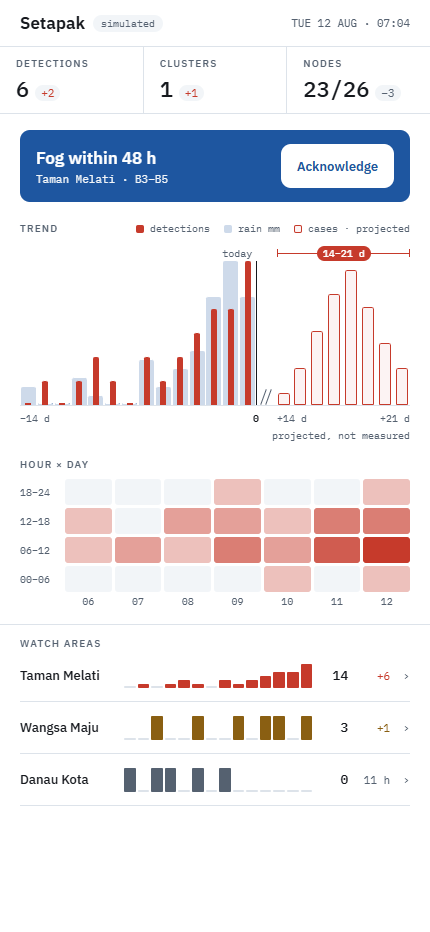
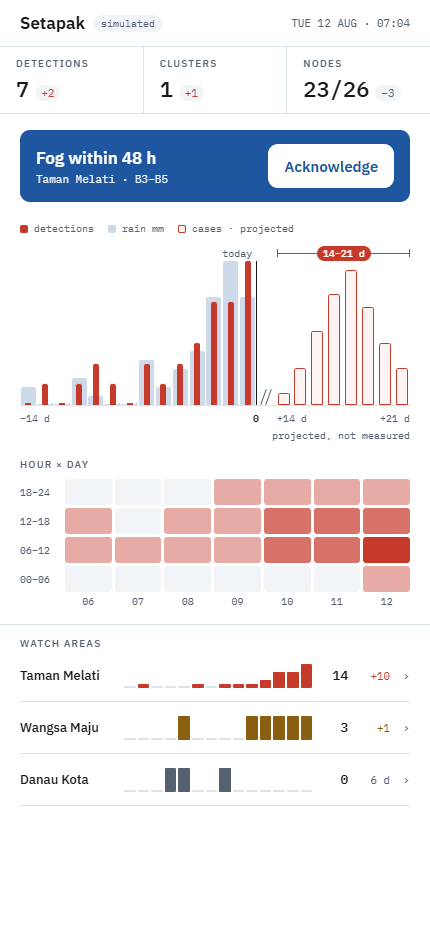
slice 13 fix 1: derive every figure from one base series; drop the self-labelling eyebrow

diff --git a/app/src/data/district.ts b/app/src/data/district.ts
@@ -30,10 +30,15 @@ export type WatchArea = {
   name: string;
   /** 14-day detection counts, oldest first — the sparkline. */
   spark: readonly number[];
-  /** Detections in the last 72 h. */
+  /** Detections in the last 72 h — derived from `spark`, never typed in. */
   count: number;
-  /** Signed change, or a "silent for" duration when count is 0. */
+  /**
+   * Derived: the signed 72 h-over-72 h change, or — when `count` is 0 — how long the area has been
+   * silent, read off `spark` so the string is always true of the bars beside it.
+   */
   delta: string;
+  /** Present only when `count` is 0: days since this area's last detection. */
+  silentDays?: number;
   tone: Tone;
   /** Seeded centroid, inside the bundled raster's bounds (design-system.md §Maps). */
   center: { lat: number; lon: number };
@@ -86,17 +91,74 @@ export const district = {
   simulated: true,
 } as const;
 
-export const kpis: readonly Kpi[] = [
-  { key: 'detections', label: 'Detections', value: '6', delta: '+2', tone: 'alert' },
-  { key: 'clusters', label: 'Clusters', value: '1', delta: '+1', tone: 'alert' },
-  { key: 'nodes', label: 'Nodes', value: '23/26', delta: '−3', tone: 'neutral' },
-];
+/* ───────────────────────────────────────────────────────────────────────────────────────────────
+   ONE BASE FACT, everything else derived (fix round, slice 13).
+   The only hand-written detection numbers in this file are the three area sparks below. The
+   district series is their element-wise sum; every count, delta, KPI value and heat-grid cell is
+   computed from that sum. Two figures can no longer disagree on screen, because there is only one
+   figure and the rest is arithmetic.
 
-// The last three days sum to 14 — the sanctioned cluster (14 detections / 72 h).
-const DETECTIONS_14D = [0, 1, 0, 1, 2, 1, 0, 2, 1, 2, 3, 4, 4, 6] as const;
+   Sanctioned anchors preserved: Taman Melati's last 72 h sums to **14** (specs' 14 detections /
+   72 h, and `activeCluster.detections`, and the 14 plotted dots in `detectionsByArea`), and the
+   last three rain days sum to **+40 mm**.
+   ─────────────────────────────────────────────────────────────────────────────────────────────── */
+
+/** The 72 h window every `count` and delta is measured over, in days. */
+const WINDOW_DAYS = 3;
+const DAYS = 14;
+
+const sum = (xs: readonly number[]) => xs.reduce((a, b) => a + b, 0);
+/** Sum of the most recent `WINDOW_DAYS` (the last 72 h). */
+const windowSum = (xs: readonly number[]) => sum(xs.slice(-WINDOW_DAYS));
+/** Sum of the 72 h before that — the comparison the delta is against. */
+const priorWindowSum = (xs: readonly number[]) => sum(xs.slice(-WINDOW_DAYS * 2, -WINDOW_DAYS));
+const signed = (n: number) => (n > 0 ? `+${n}` : n < 0 ? `−${Math.abs(n)}` : '0');
+/** Days since the last non-zero day, or null if the series is silent throughout. */
+function daysSinceLast(xs: readonly number[]): number | null {
+  for (let i = xs.length - 1; i >= 0; i--) if (xs[i] > 0) return xs.length - 1 - i;
+  return null;
+}
+
+/**
+ * The three watch areas. Sparks are 14 days, oldest first — the ONLY typed-in detection counts.
+ *
+ * Taman Melati's last three days are [4, 4, 6] = 14, which is the sanctioned cluster figure and the
+ * `ageBand` split of its 14 mapped detections. Wangsa Maju's [1, 1, 1] = 3 is one detection per
+ * recency band, matching its three mapped dots. Danau Kota has been silent since day 8, so its
+ * count is 0 and its row reports the silence instead of a change.
+ */
+const AREA_SEED = [
+  {
+    id: 'taman-melati',
+    name: 'Taman Melati',
+    spark: [0, 1, 0, 0, 0, 1, 0, 1, 1, 1, 2, 4, 4, 6],
+    tone: 'alert' as Tone,
+    center: { lat: 3.2145, lon: 101.7216 },
+  },
+  {
+    id: 'wangsa-maju',
+    name: 'Wangsa Maju',
+    spark: [0, 0, 0, 0, 1, 0, 0, 0, 0, 1, 1, 1, 1, 1],
+    tone: 'caution' as Tone,
+    center: { lat: 3.2032, lon: 101.7305 },
+  },
+  {
+    id: 'danau-kota',
+    name: 'Danau Kota',
+    spark: [0, 0, 0, 1, 1, 0, 0, 1, 0, 0, 0, 0, 0, 0],
+    tone: 'neutral' as Tone,
+    center: { lat: 3.2035, lon: 101.7148 },
+  },
+] as const;
+
+/** The district series IS the areas, added up. Nothing else may define it. */
+const DETECTIONS_14D: readonly number[] = Array.from({ length: DAYS }, (_, d) =>
+  sum(AREA_SEED.map((a) => a.spark[d])),
+);
+
 // The last three days sum to 40 — the sanctioned +40 mm.
 const RAIN_14D = [2, 0, 0, 3, 1, 0, 0, 5, 2, 4, 6, 12, 16, 12] as const;
-// +14…+21 d inclusive: 8 days. Magnitudes are illustrative only.
+// +14…+21 d inclusive: 8 days. A shape only — no magnitude is claimed or rendered.
 const PROJECTED_CASES = [1, 3, 6, 9, 11, 8, 5, 3] as const;
 
 export const trend: TrendSeries = {
@@ -111,59 +173,109 @@ export const trend: TrendSeries = {
   },
 };
 
-/** Hour band × day. The daylight-biting vector shows in the two middle bands. */
+/**
+ * Hour band × day, DERIVED so each column sums to that day's district detections — the grid and the
+ * chart above it are the same data at two resolutions, and a paused frame cannot catch them
+ * disagreeing.
+ *
+ * The daylight-biting shape (specs.md §2: *Aedes aegypti* bites in daylight) is the argument the
+ * grid exists to make, so it is carried by fixed band weights rather than by hand-placed cells:
+ * 06–12 heaviest, 12–18 close behind, 18–24 light, 00–06 residual. Whole detections are allocated
+ * by largest remainder, ties to the heavier band, so every column total is exact.
+ */
+const HEAT_BANDS = [
+  { label: '18–24', weight: 0.16 },
+  { label: '12–18', weight: 0.34 },
+  { label: '06–12', weight: 0.42 },
+  { label: '00–06', weight: 0.08 },
+] as const;
+
+function allocateBands(total: number): number[] {
+  const raw = HEAT_BANDS.map((b) => total * b.weight);
+  const out = raw.map((v) => Math.floor(v));
+  let left = total - sum(out);
+  const order = raw
+    .map((v, i) => ({ i, frac: v - Math.floor(v) }))
+    .sort((a, b) => b.frac - a.frac || HEAT_BANDS[b.i].weight - HEAT_BANDS[a.i].weight);
+  for (const { i } of order) {
+    if (left <= 0) break;
+    out[i] += 1;
+    left -= 1;
+  }
+  return out;
+}
+
+const HEAT_DAYS = DETECTIONS_14D.slice(DAYS - 7); // the 7 most recent days, oldest first
+const HEAT_COLUMNS = HEAT_DAYS.map(allocateBands);
+
 export const heat: HeatGrid = {
-  rows: ['18–24', '12–18', '06–12', '00–06'],
+  rows: HEAT_BANDS.map((b) => b.label),
   cols: ['06', '07', '08', '09', '10', '11', '12'],
-  values: [
-    [0, 0, 0, 1, 0, 0, 1],
-    [1, 0, 2, 2, 1, 3, 3],
-    [1, 2, 1, 3, 2, 4, 5],
-    [0, 0, 0, 0, 1, 0, 1],
-  ],
-  max: 5,
+  values: HEAT_BANDS.map((_, band) => HEAT_COLUMNS.map((col) => col[band])),
+  max: Math.max(...HEAT_COLUMNS.flat()),
 };
 
-export const watchAreas: readonly WatchArea[] = [
-  {
-    id: 'taman-melati',
-    name: 'Taman Melati',
-    spark: [0, 1, 0, 1, 2, 1, 0, 2, 1, 2, 3, 4, 4, 6],
-    count: 14,
-    delta: '+6',
-    tone: 'alert',
-    center: { lat: 3.2145, lon: 101.7216 },
-  },
-  {
-    id: 'wangsa-maju',
-    name: 'Wangsa Maju',
-    spark: [0, 0, 1, 0, 0, 1, 0, 0, 1, 0, 1, 1, 0, 1],
-    count: 3,
-    delta: '+1',
-    tone: 'caution',
-    center: { lat: 3.2032, lon: 101.7305 },
-  },
-  {
-    id: 'danau-kota',
-    name: 'Danau Kota',
-    spark: [1, 0, 1, 1, 0, 1, 0, 1, 0, 0, 0, 0, 0, 0],
-    count: 0,
-    delta: '11 h',
-    tone: 'neutral',
-    center: { lat: 3.2035, lon: 101.7148 },
-  },
-];
+/** Counts and deltas are read off the sparks — never typed in beside them. */
+export const watchAreas: readonly WatchArea[] = AREA_SEED.map((a) => {
+  const count = windowSum(a.spark);
+  const silentDays = count === 0 ? daysSinceLast(a.spark) : null;
+  return {
+    id: a.id,
+    name: a.name,
+    spark: a.spark,
+    count,
+    // A silent area reports how long it has been silent; an active one reports 72 h over 72 h.
+    delta: silentDays === null ? signed(count - priorWindowSum(a.spark)) : `${silentDays} d`,
+    ...(silentDays === null ? {} : { silentDays }),
+    tone: a.tone,
+    center: a.center,
+  };
+});
+
+const melati = watchAreas.find((w) => w.id === 'taman-melati')!;
 
 export const activeCluster: Cluster = {
-  id: 'taman-melati',
-  area: 'Taman Melati',
+  id: melati.id,
+  area: melati.name,
   blocks: 'B3–B5',
-  detections: 14,
-  windowHours: 72,
-  rainMm: 40,
+  // The cluster IS Taman Melati's 72 h count — the sanctioned 14, and the mapped dot count.
+  detections: melati.count,
+  windowHours: WINDOW_DAYS * 24,
+  rainMm: windowSum(RAIN_14D),
   trend: 'rising',
-  center: { lat: 3.2145, lon: 101.7216 },
+  center: melati.center,
 };
+
+/** Nodes are the only KPI with no series behind them; one place declares them. */
+const NODES = { reporting: 23, total: 26, delta: -3 };
+
+const today = DETECTIONS_14D[DAYS - 1];
+const yesterday = DETECTIONS_14D[DAYS - 2];
+const clusters = [activeCluster];
+
+export const kpis: readonly Kpi[] = [
+  {
+    key: 'detections',
+    label: 'Detections',
+    value: String(today),
+    delta: signed(today - yesterday),
+    tone: 'alert',
+  },
+  {
+    key: 'clusters',
+    label: 'Clusters',
+    value: String(clusters.length),
+    delta: signed(clusters.length),
+    tone: 'alert',
+  },
+  {
+    key: 'nodes',
+    label: 'Nodes',
+    value: `${NODES.reporting}/${NODES.total}`,
+    delta: signed(NODES.delta),
+    tone: 'neutral',
+  },
+];
 
 /* ───────────────────────────────────────────────────────────────────────────────────────────────
    Cluster-map layer — ADDED ADDITIVELY in slice 14 for `/officer/cluster/[id]`.
@@ -210,7 +322,8 @@ export const clusterBlocks: readonly SurveyBlock[] = [
  * Detections per watch area, keyed by `WatchArea.id`.
  *
  * Taman Melati carries exactly 14 — `activeCluster.detections` — all inside B3–B5, and the band
- * split is 6 / 4 / 4, which is `DETECTIONS_14D`'s last three days [4, 4, 6] read newest-first. The
+ * split is 6 / 4 / 4, which is that area's own spark read newest-first ([4, 4, 6] → 6 / 4 / 4; the
+ * slice-13 fix round made the district series the SUM of the areas, so this now cites the area). The
  * dot count and the sheet's `14 / 72 h` are therefore the same number, not two numbers that agree.
  * Danau Kota is deliberately empty: `count: 0`, silent 11 h.
  */

diff --git a/app/src/app/officer/index.tsx b/app/src/app/officer/index.tsx
@@ -1,4 +1,4 @@
-import { Link, type Href } from 'expo-router';
+import { Link } from 'expo-router';
 import { useState } from 'react';
 import { Pressable, ScrollView, Text, View } from 'react-native';
 import { SafeAreaView } from 'react-native-safe-area-context';
@@ -127,7 +127,7 @@ export default function OfficerHome() {
             onPress={() => setAcknowledged(true)}
             className="min-h-[44px] shrink-0 justify-center rounded-card bg-o-bg px-4"
             style={({ pressed }) => (pressed ? { opacity: 0.85 } : null)}>
-            <Text className="text-center font-plex-semibold text-[13px] text-o-primary">
+            <Text className="text-center font-plex-semibold text-[15px] text-o-primary">
               {acknowledged ? 'Acknowledged' : 'Acknowledge'}
             </Text>
           </Pressable>
@@ -135,8 +135,9 @@ export default function OfficerHome() {
 
         {/* ── the 14-day chart ──────────────────────────────────────────── */}
         <View className="mt-5 px-5">
-          <View className="flex-row items-center justify-between">
-            <Eyebrow>Trend</Eyebrow>
+          {/* No section label here: the legend names all three series and the axis already reads
+              −14 d…+21 d, so an eyebrow would label a chart that labels itself. */}
+          <View className="flex-row items-center justify-start">
             <View className="flex-row items-center gap-3.5">
               <LegendKey label="detections" swatch={<View className="h-2 w-2 rounded-[2px] bg-o-alert" />} />
               <LegendKey
@@ -289,9 +290,7 @@ export default function OfficerHome() {
         <View className="mt-4 border-t border-o-line px-5 pt-3">
           <Eyebrow>Watch areas</Eyebrow>
           {watchAreas.map((w) => (
-            /* The cast drops out in slice 14, when /officer/cluster/[id] exists and typed routes
-               know the path. Until then a tap lands on not-found — the href is already correct. */
-            <Link key={w.id} href={`/officer/cluster/${w.id}` as Href} asChild>
+            <Link key={w.id} href={{ pathname: '/officer/cluster/[id]', params: { id: w.id } }} asChild>
               <Pressable
                 accessibilityRole="link"
                 className="min-h-[52px] flex-row items-center gap-3 border-b border-o-line py-3"

diff --git a/app/src/app/officer/cluster/[id].tsx b/app/src/app/officer/cluster/[id].tsx
@@ -432,7 +432,7 @@ export default function ClusterDetail() {
             <View className="mt-4">
               <Text className="font-plex-medium text-[15px] text-o-ink">No cluster · monitoring</Text>
               <Text className="mt-1 font-mono text-[11px] text-o-muted">
-                {area.count === 0 ? `silent ${area.delta}` : `${area.delta} on the day`} · no fogging
+                {area.count === 0 ? `silent ${area.delta}` : `${area.delta} on 72 h`} · no fogging
                 directive
               </Text>
             </View>
